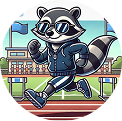
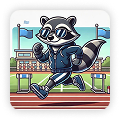
Version local de la pantalla Historial de Actividades

diff --git a/lib/screens/estudiante_dashboard_screen.dart b/lib/screens/estudiante_dashboard_screen.dart
@@ -1,4 +1,5 @@
 import 'package:flutter/material.dart';
+import 'package:mobile/screens/historial_actividades_screen.dart';
 import 'package:provider/provider.dart';
 import 'package:intl/intl.dart';
 import '../models/asistencia_detalle.dart';
@@ -11,16 +12,16 @@ import 'login_screen.dart';
 
 class EstudianteDashboardScreen extends StatefulWidget {
   @override
-  _EstudianteDashboardScreenState createState() => _EstudianteDashboardScreenState();
+  _EstudianteDashboardScreenState createState() =>
+      _EstudianteDashboardScreenState();
 }
 
-class _EstudianteDashboardScreenState extends State<EstudianteDashboardScreen> 
+class _EstudianteDashboardScreenState extends State<EstudianteDashboardScreen>
     with TickerProviderStateMixin {
   final GlobalKey<ScaffoldState> _scaffoldKey = GlobalKey<ScaffoldState>();
-  
+
   List<AsistenciaDetalle> _misAsistencias = [];
   bool _isLoading = true;
-  String? _numeroControl;
   late AnimationController _animationController;
   late Animation<double> _fadeAnimation;
 
@@ -32,8 +33,7 @@ class _EstudianteDashboardScreenState extends State<EstudianteDashboardScreen>
       vsync: this,
     );
     _fadeAnimation = Tween<double>(begin: 0.0, end: 1.0).animate(
-      CurvedAnimation(parent: _animationController, curve: Curves.easeOut)
-    );
+        CurvedAnimation(parent: _animationController, curve: Curves.easeOut));
     _obtenerNumeroControl();
     _cargarMisAsistencias();
   }
@@ -45,25 +45,24 @@ class _EstudianteDashboardScreenState extends State<EstudianteDashboardScreen>
   }
 
   void _obtenerNumeroControl() {
-    final authService = context.read<AuthService>();
-    setState(() {
-      _numeroControl = authService.numeroControl;
-    });
+    context.read<AuthService>();
+    setState(() {});
   }
 
   Future<void> _cargarMisAsistencias() async {
     if (_numeroControl == null) return;
-    
+
     setState(() => _isLoading = true);
-    
+
     final apiService = context.read<ApiService>();
-    final asistencias = await apiService.getAsistenciasPorEstudiante(_numeroControl!);
-    
+    final asistencias =
+        await apiService.getAsistenciasPorEstudiante(_numeroControl!);
+
     setState(() {
       _misAsistencias = asistencias;
       _isLoading = false;
     });
-    
+
     _animationController.forward();
   }
 
@@ -81,10 +80,10 @@ class _EstudianteDashboardScreenState extends State<EstudianteDashboardScreen>
           ElevatedButton(
             onPressed: () async {
               Navigator.pop(context);
-              
+
               final authService = context.read<AuthService>();
               await authService.logout();
-              
+
               Navigator.pushAndRemoveUntil(
                 context,
                 MaterialPageRoute(builder: (context) => LoginScreen()),
@@ -111,10 +110,16 @@ class _EstudianteDashboardScreenState extends State<EstudianteDashboardScreen>
   // Estadísticas de mis asistencias
   Map<String, int> _calcularEstadisticas() {
     final total = _misAsistencias.length;
-    final asistio = _misAsistencias.where((a) => a.estadoAsistencia == Constants.estadoAsistio).length;
-    final noAsistio = _misAsistencias.where((a) => a.estadoAsistencia == Constants.estadoNoAsistio).length;
-    final justificado = _misAsistencias.where((a) => a.estadoAsistencia == Constants.estadoJustificado).length;
-    
+    final asistio = _misAsistencias
+        .where((a) => a.estadoAsistencia == Constants.estadoAsistio)
+        .length;
+    final noAsistio = _misAsistencias
+        .where((a) => a.estadoAsistencia == Constants.estadoNoAsistio)
+        .length;
+    final justificado = _misAsistencias
+        .where((a) => a.estadoAsistencia == Constants.estadoJustificado)
+        .length;
+
     return {
       'total': total,
       'asistio': asistio,
@@ -179,11 +184,8 @@ class _EstudianteDashboardScreenState extends State<EstudianteDashboardScreen>
                         height: 60,
                         fit: BoxFit.cover,
                         errorBuilder: (context, error, stackTrace) {
-                          return Icon(
-                            Icons.person, 
-                            size: 35, 
-                            color: Color(Constants.primaryColor)
-                          );
+                          return Icon(Icons.person,
+                              size: 35, color: Color(Constants.primaryColor));
                         },
                       ),
                     ),
@@ -206,7 +208,8 @@ class _EstudianteDashboardScreenState extends State<EstudianteDashboardScreen>
                           ),
                           SizedBox(height: 4),
                           Container(
-                            padding: EdgeInsets.symmetric(horizontal: 8, vertical: 2),
+                            padding: EdgeInsets.symmetric(
+                                horizontal: 8, vertical: 2),
                             decoration: BoxDecoration(
                               color: Colors.white.withOpacity(0.2),
                               borderRadius: BorderRadius.circular(12),
@@ -248,7 +251,8 @@ class _EstudianteDashboardScreenState extends State<EstudianteDashboardScreen>
     );
   }
 
-  Widget _buildDrawerItem(IconData icon, String title, bool isSelected, {VoidCallback? onTap}) {
+  Widget _buildDrawerItem(IconData icon, String title, bool isSelected,
+      {VoidCallback? onTap}) {
     return Container(
       margin: EdgeInsets.symmetric(horizontal: 8, vertical: 2),
       decoration: BoxDecoration(
@@ -300,7 +304,6 @@ class _EstudianteDashboardScreenState extends State<EstudianteDashboardScreen>
                     icon: Icon(Icons.menu, color: Colors.white, size: 28),
                     onPressed: () => _scaffoldKey.currentState?.openDrawer(),
                   ),
-                  
                   Expanded(
                     child: Center(
                       child: Text(
@@ -313,7 +316,6 @@ class _EstudianteDashboardScreenState extends State<EstudianteDashboardScreen>
                       ),
                     ),
                   ),
-                  
                   Container(
                     padding: EdgeInsets.all(6),
                     decoration: BoxDecoration(
@@ -328,7 +330,7 @@ class _EstudianteDashboardScreenState extends State<EstudianteDashboardScreen>
                       ],
                     ),
                     child: Image.asset(
-                      'assets/images/logo-tecnm.png',
+                      'assets/images/logo_tecnm.jpeg',
                       width: 32,
                       height: 32,
                       fit: BoxFit.contain,
@@ -422,7 +424,7 @@ class _EstudianteDashboardScreenState extends State<EstudianteDashboardScreen>
                   borderRadius: BorderRadius.circular(40),
                 ),
                 child: Image.asset(
-                  'assets/images/estudiante-welcome.png',
+                  'assets/images/Estudiante.jpeg',
                   width: 60,
                   height: 60,
                   fit: BoxFit.contain,
@@ -444,7 +446,7 @@ class _EstudianteDashboardScreenState extends State<EstudianteDashboardScreen>
 
   Widget _buildStatsSection() {
     final stats = _calcularEstadisticas();
-    
+
     return SliverToBoxAdapter(
       child: FadeTransition(
         opacity: _fadeAnimation,
@@ -514,7 +516,8 @@ class _EstudianteDashboardScreenState extends State<EstudianteDashboardScreen>
     );
   }
 
-  Widget _buildStatCard(String title, String value, IconData icon, Color color) {
+  Widget _buildStatCard(
+      String title, String value, IconData icon, Color color) {
     return Container(
       padding: EdgeInsets.all(16),
       decoration: BoxDecoration(
@@ -555,7 +558,7 @@ class _EstudianteDashboardScreenState extends State<EstudianteDashboardScreen>
 
   Widget _buildRecentActivitiesSection() {
     final actividadesRecientes = _obtenerActividadesRecientes();
-    
+
     return SliverToBoxAdapter(
       child: FadeTransition(
         opacity: _fadeAnimation,
@@ -591,7 +594,6 @@ class _EstudianteDashboardScreenState extends State<EstudianteDashboardScreen>
                 ],
               ),
               SizedBox(height: 12),
-              
               if (_isLoading)
                 Center(
                   child: Padding(
@@ -605,9 +607,9 @@ class _EstudianteDashboardScreenState extends State<EstudianteDashboardScreen>
                 _buildEmptyState()
               else
                 Column(
-                  children: actividadesRecientes.map((actividad) => 
-                    _buildActivityCard(actividad)
-                  ).toList(),
+                  children: actividadesRecientes
+                      .map((actividad) => _buildActivityCard(actividad))
+                      .toList(),
                 ),
             ],
           ),
@@ -672,7 +674,7 @@ class _EstudianteDashboardScreenState extends State<EstudianteDashboardScreen>
   Widget _buildActivityCard(AsistenciaDetalle actividad) {
     Color estadoColor = _getEstadoColor(actividad.estadoAsistencia);
     IconData estadoIcon = _getEstadoIcon(actividad.estadoAsistencia);
-    
+
     return Container(
       margin: EdgeInsets.only(bottom: 12),
       decoration: BoxDecoration(
@@ -704,9 +706,9 @@ class _EstudianteDashboardScreenState extends State<EstudianteDashboardScreen>
                 size: 24,
               ),
             ),
-            
+
             SizedBox(width: 16),
-            
+
             // Información de la actividad
             Expanded(
               child: Column(
@@ -732,7 +734,8 @@ class _EstudianteDashboardScreenState extends State<EstudianteDashboardScreen>
                   ),
                   SizedBox(height: 4),
                   Text(
-                    DateFormat('dd MMM yyyy, HH:mm').format(actividad.fechaHora),
+                    DateFormat('dd MMM yyyy, HH:mm')
+                        .format(actividad.fechaHora),
                     style: TextStyle(
                       fontSize: 12,
                       color: Colors.grey[500],
@@ -741,7 +744,7 @@ class _EstudianteDashboardScreenState extends State<EstudianteDashboardScreen>
                 ],
               ),
             ),
-            
+
             // Estado de asistencia
             Container(
               padding: EdgeInsets.symmetric(horizontal: 12, vertical: 6),

diff --git a/lib/main.dart b/lib/main.dart
@@ -1,12 +1,12 @@
 import 'package:flutter/material.dart';
-import 'package:flutter/services.dart';
 import 'package:provider/provider.dart';
 import 'screens/login_screen.dart';
-import 'screens/lista_asistencias_screen.dart';
 import 'screens/estudiante_dashboard_screen.dart';
 import 'services/api_service.dart';
 import 'services/auth_service.dart';
 import 'services/configuracion_service.dart';
+import 'repositories/actividad_repository.dart'; // Añadir esta importación
+import 'view_models/actividad_viewmodel.dart'; // Añadir esta importación
 import 'utils/constants.dart';
 
 void main() {
@@ -33,6 +33,10 @@ class MyApp extends StatelessWidget {
         ),
         Provider<ApiService>(
           create: (_) => ApiService(),
+        ),
+        // Añadir el provider del ViewModel de actividades
+        ChangeNotifierProvider<ActividadViewModel>(
+          create: (_) => ActividadViewModel(ActividadRepository()),
         ),
       ],
       child: Consumer2<AuthService, ConfiguracionService>(
@@ -64,7 +68,7 @@ class MyApp extends StatelessWidget {
                 : ThemeMode.light,
 
             // Navegación inicial basada en autenticación
-            home: EstudianteDashboardScreen(),
+            home: EstudianteDashboardScreen(), // Cambiar a AuthWrapper
           );
         },
       ),
@@ -131,7 +135,7 @@ class MyApp extends StatelessWidget {
       ),
 
       // Card theme
-      cardTheme: CardThemeData(
+      cardTheme: CardTheme(
         elevation: 4,
         margin: EdgeInsets.symmetric(horizontal: 16, vertical: 8),
         shape: RoundedRectangleBorder(
@@ -304,9 +308,6 @@ class _AuthWrapperState extends State<AuthWrapper> {
           switch (userRole) {
             case 'Estudiante':
               return EstudianteDashboardScreen();
-            case 'Encargado':
-            case 'Administrador':
-              return ListaAsistenciasScreen();
             default:
               return LoginScreen();
           }
